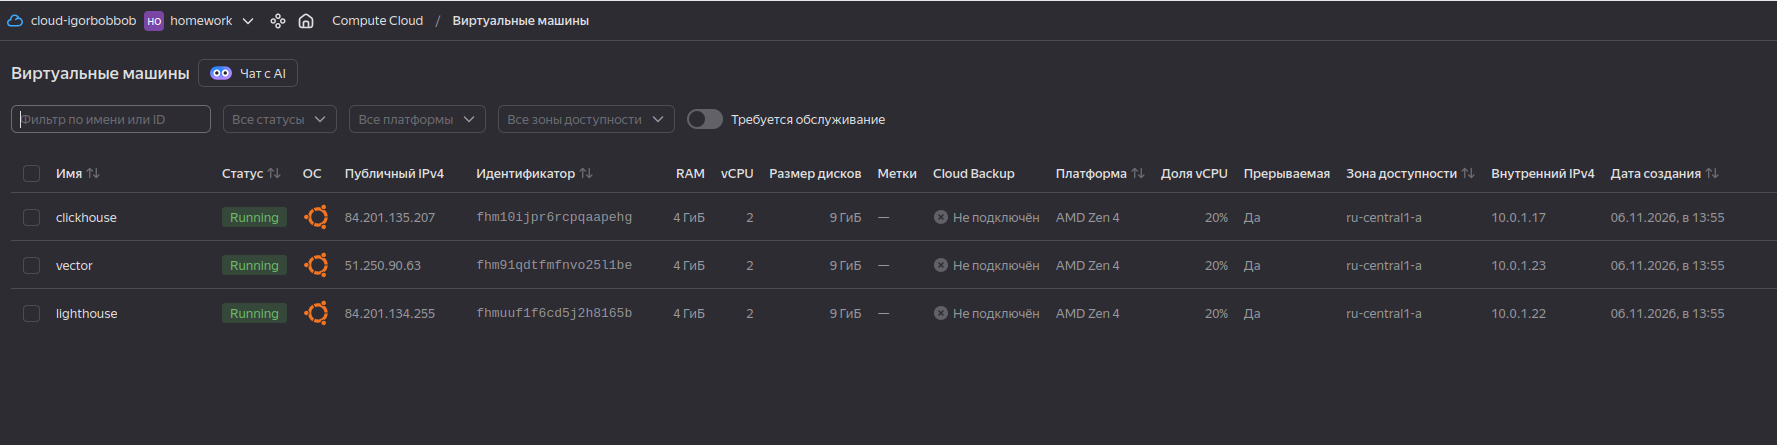
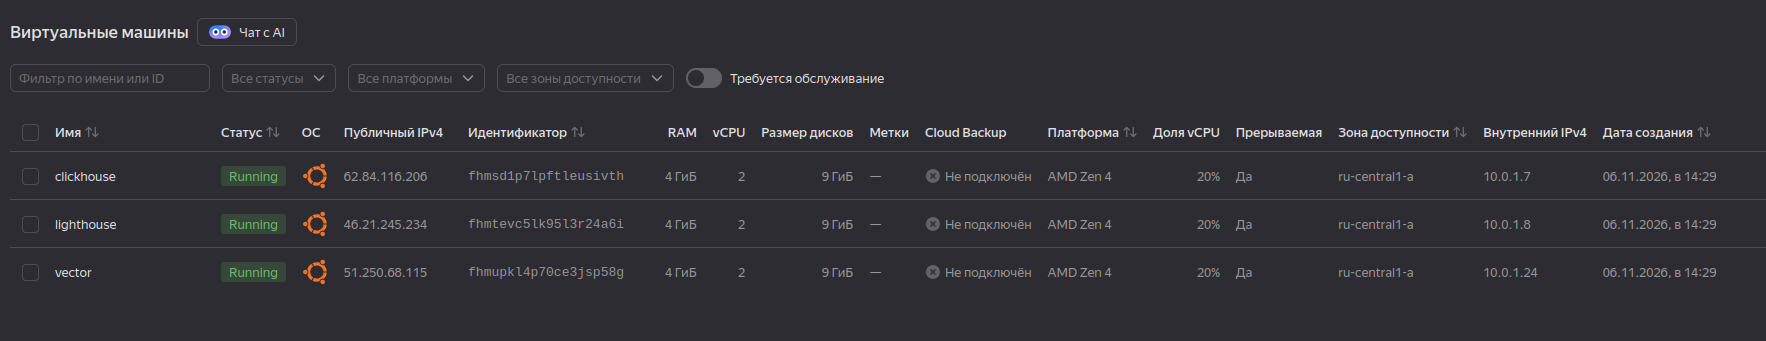
final8

diff --git a/README.md b/README.md
@@ -33,11 +33,15 @@
 
 ![lint](screenshots/2.png)
 
-4. Запуск с флагом `--check` приводит к ошибкам, тк нужные файлы не скачиваются на ВМ, соответственно не могут быть установлены:
+4. Запуск с флагом `--check` приводит к ошибкам, т.к. нужные файлы не скачиваются на ВМ, соответственно не могут быть установлены:
 
 ![check](screenshots/3.png)
 
-5. Запускаем playbook с флагом `--diff`
+5. Запускаем playbook с флагом `--diff`, повторно запускаем playbook с флагом `--diff`:
+
+![diff](screenshots/4.png)
+
+ 
 
 
 
